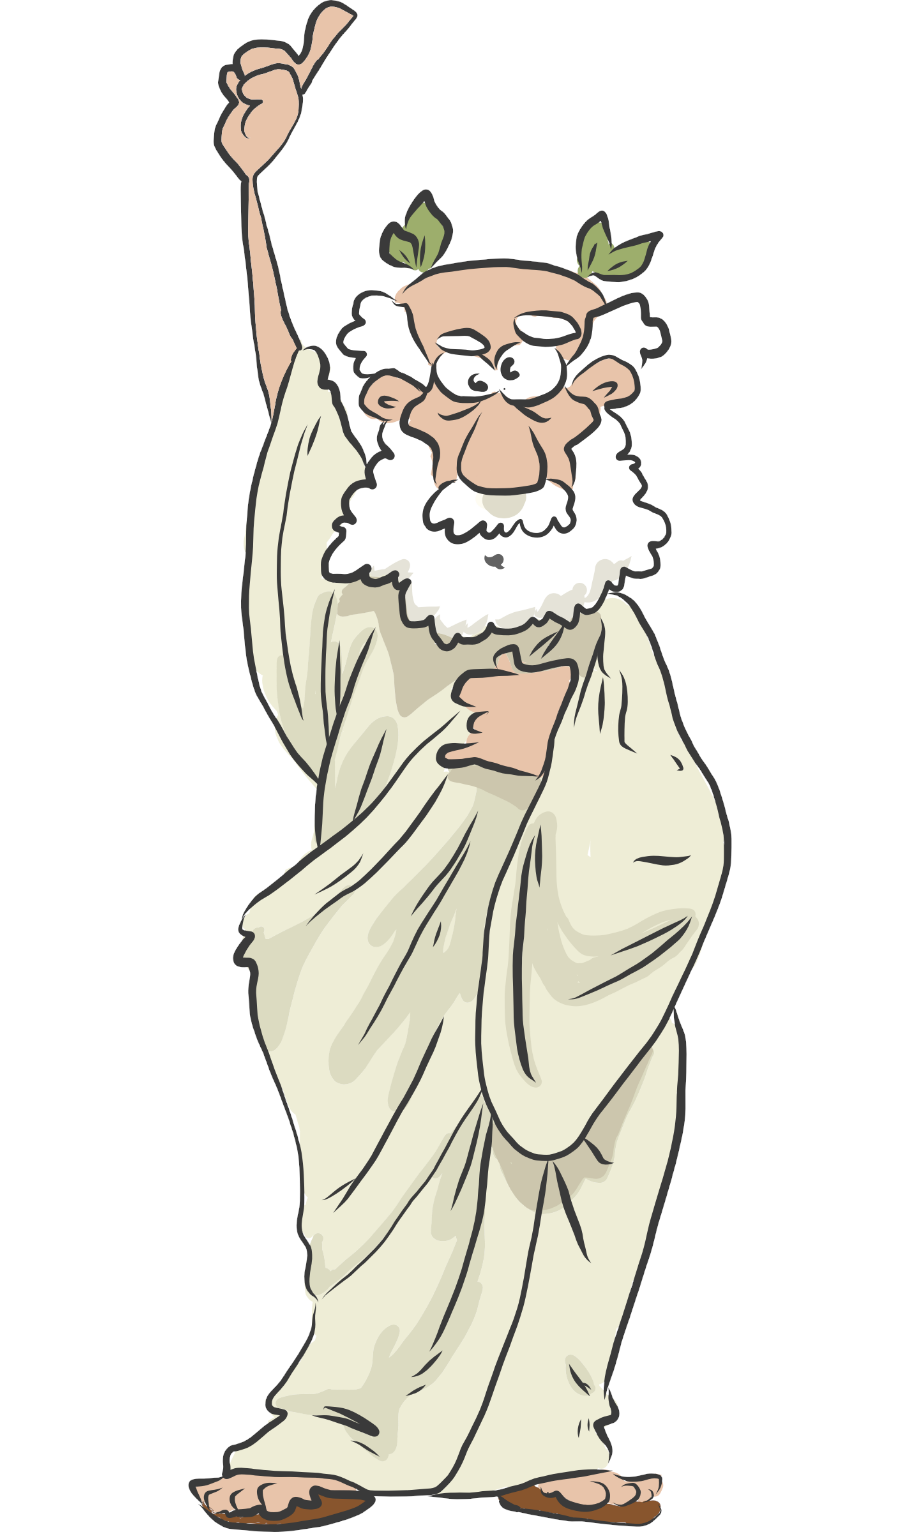
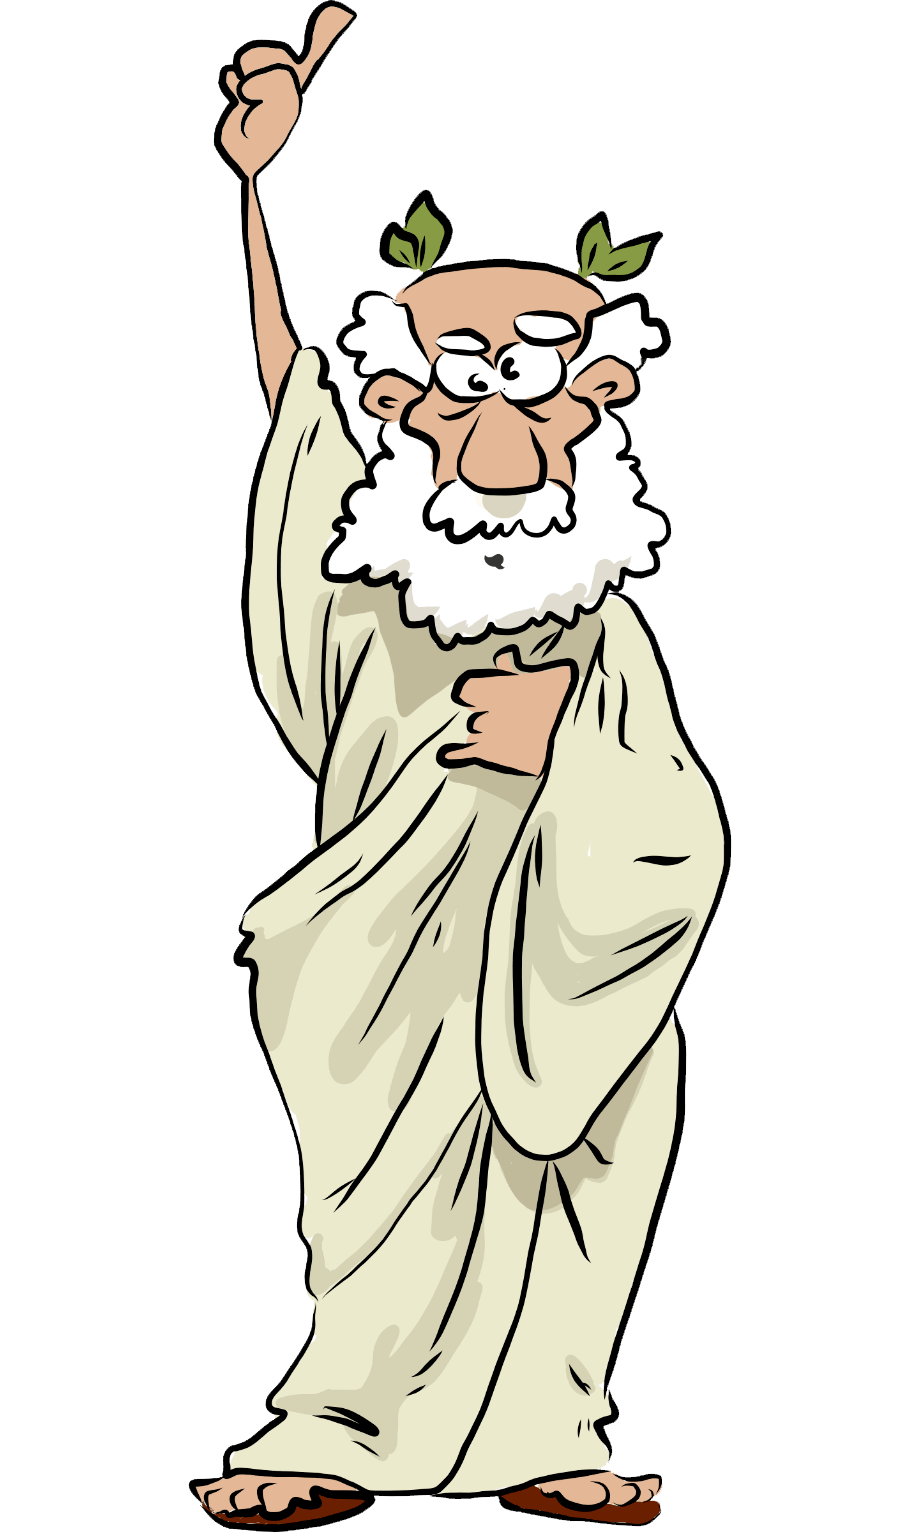
Minified images

diff --git a/src/main/java/org/hua/hermes/frontend/error/view/NotFoundView.java b/src/main/java/org/hua/hermes/frontend/error/view/NotFoundView.java
@@ -15,7 +15,7 @@ public class NotFoundView extends ErrorView
                 "The page you are looking for does not exist. " +
                           "How you got here is a mystery. " +
                           "But you can click the button below to go back to the homepage.",
-                "/images/ancient-person-questioning.jpg",
+                "/images/ancient-person-questioning.png",
                 "ancient-person-questioning");
 
         getHomeButton().addClickListener(listener -> {
